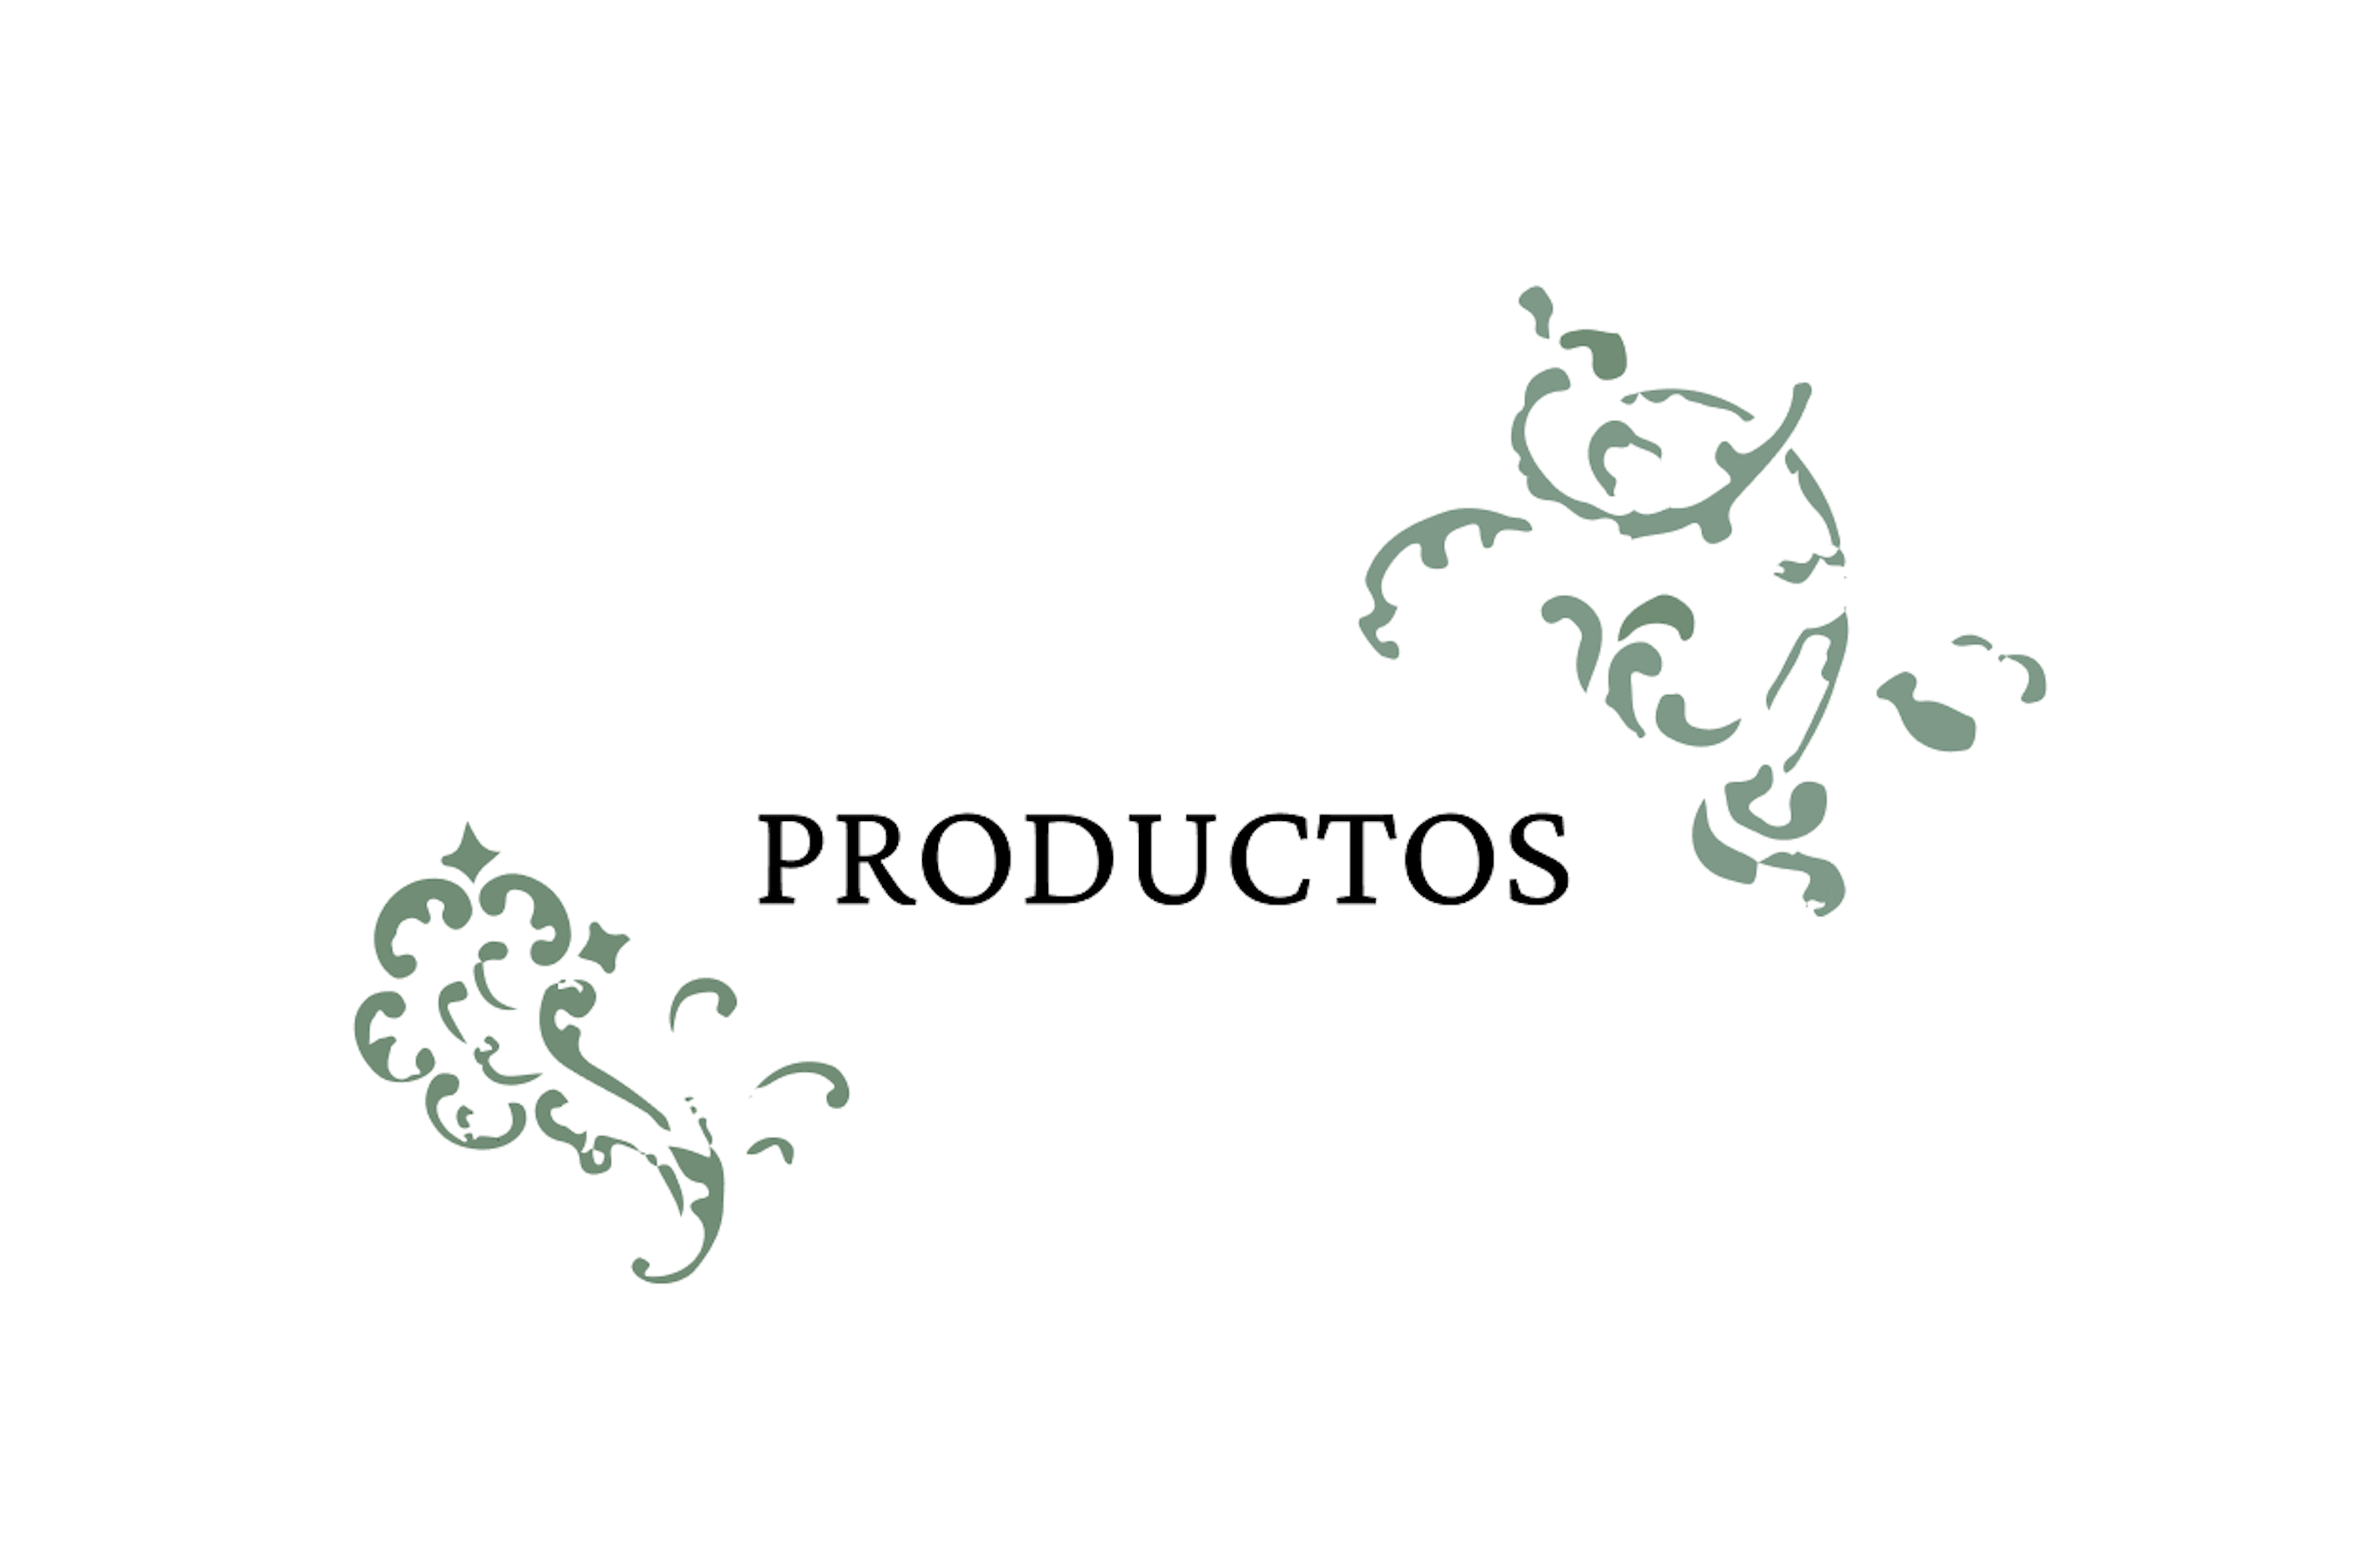
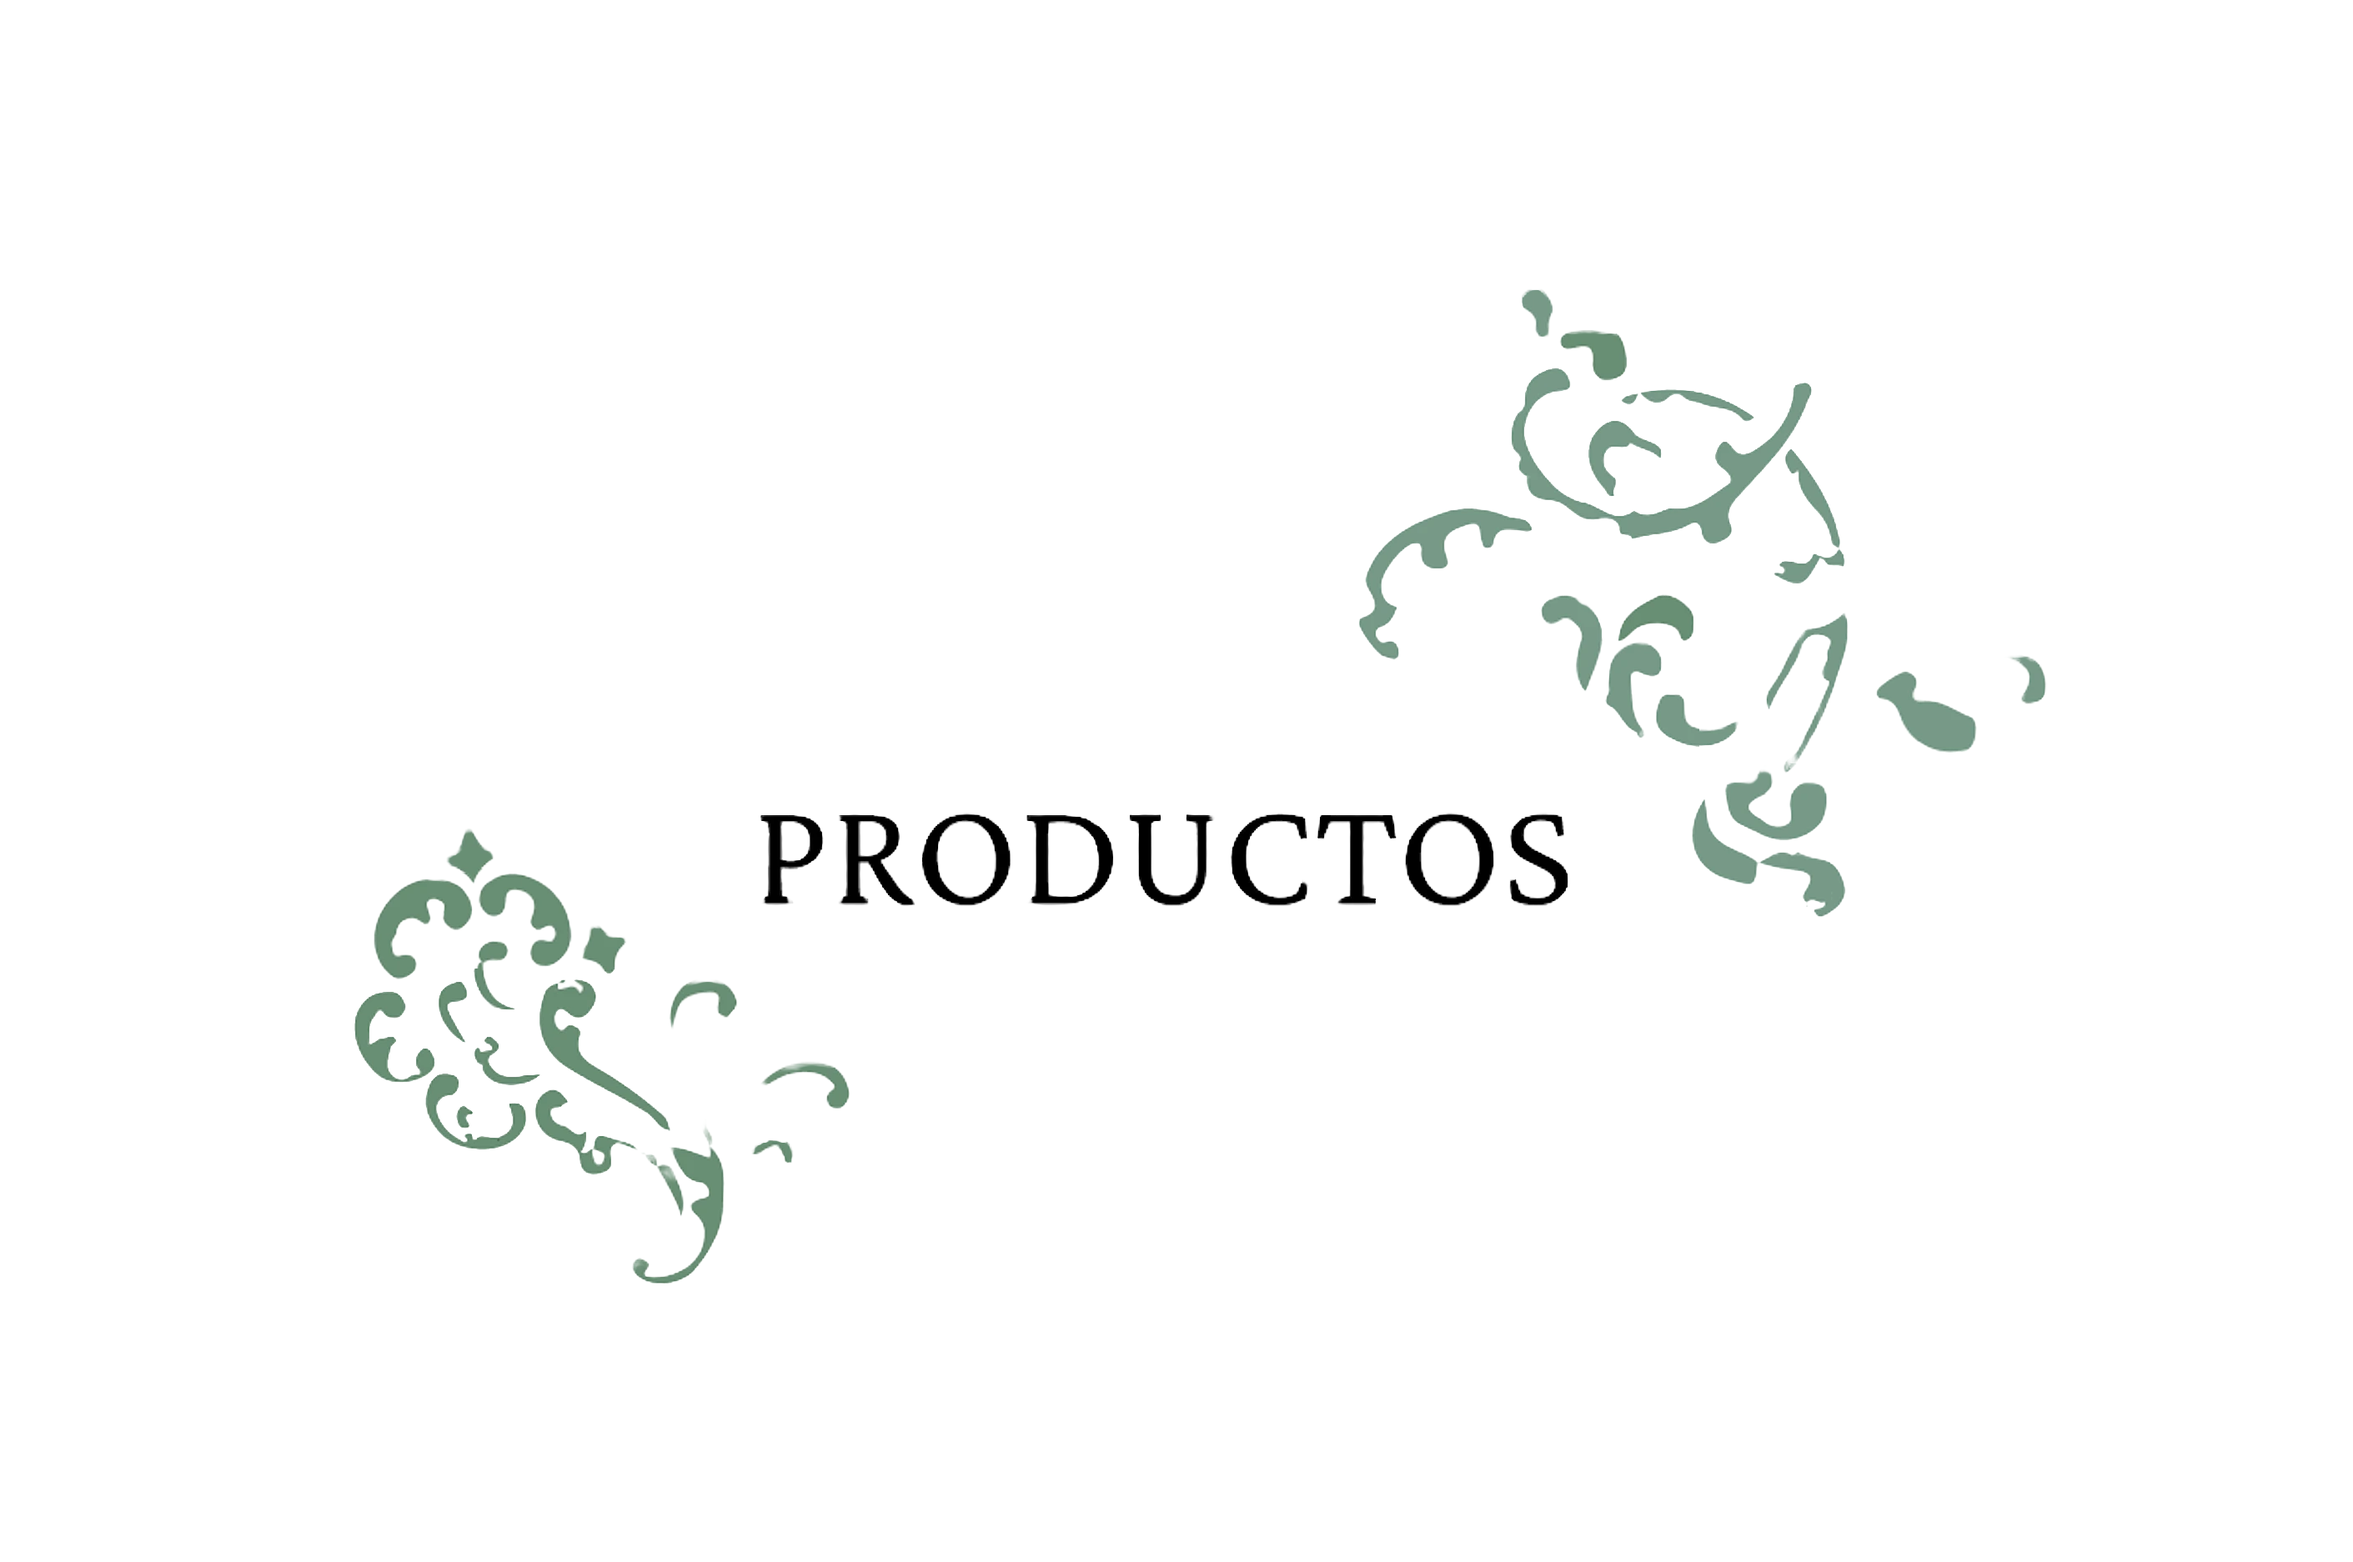
modo_oscuro

Changed region(s): [[0.2807, 0.7118, 0.3118, 0.7737], [0.7484, 0.4642, 0.7796, 0.4952], [0.1871, 0.5261, 0.2183, 0.5571]]

diff --git a/index.html b/index.html
@@ -16,6 +16,9 @@
   <link rel="stylesheet" href="/css/styles.css">
 
   <style type="text/tailwindcss">
+    
+    @custom-variant dark (&:where(.dark, .dark *));
+
     @theme static {
         --color-fondo: #ffffff;       /* blanco */
         --color-texto: #000000;       /* negro */
@@ -44,7 +47,7 @@
       <div class="bg-fondo pt-10 sm:pt-10 sm:pb-14 text-center overflow-hidden">
         
         <h1 id="titulo-productos" class="titulo-banner relative isolate mx-auto mb-4 sm:mb-6">
-            <img src="media/img/ilustracion_1.webp" alt="Productos" class="mx-auto h-auto w-[min(100vw,50rem)]">
+            <img src="media/img/ilustracion_1.webp" alt="Productos" class="mx-auto h-auto w-[min(100vw,50rem)] dark:invert">
         </h1>
 
       </div>
@@ -126,7 +129,7 @@
         <div class="mx-auto max-w-3xl px-8 sm:px-10 pt-24 pb-32 sm:pt-28 sm:pb-40">
             
             <h2 id="titulo-novedades" class="mx-auto text-center" data-aos="fade-down">
-                <img src="media/img/ilustracion_2.webp" alt="Novedades" class="mx-auto h-auto w-[min(65vw,32rem)]">
+                <img src="media/img/ilustracion_2.webp" alt="Novedades" class="mx-auto h-auto w-[min(65vw,32rem)] dark:invert">
 
             </h2>
             
@@ -203,7 +206,7 @@
 
 </main>
 
-    <footer class="footer-botanico text-fondo" aria-label="Pie de página">
+    <footer class="footer-botanico text-white" aria-label="Pie de página">
     <div class="mx-auto max-w-2xl px-6 py-20 sm:py-28 text-center flex flex-col items-center gap-14">
 
      

diff --git a/CSS/styles.css b/CSS/styles.css
@@ -4,6 +4,17 @@
 
 @layer base {
     :focus-visible { outline-offset: 4px; }
+    
+        .dark {
+        --color-fondo: #121815;
+        --color-texto: #f2f5f2;
+        --color-superficie: #1d2420;
+        --color-suave: #c9d3cc;
+        --color-borde: #2e3a33;
+        --color-niebla: #1d2a23;
+        --color-acento: #8fc0a5;
+        color-scheme: dark;
+    }
 }
 
 @layer components {
@@ -108,6 +119,8 @@
 
   
     .tarjeta:hover .marco-novedad .marco { box-shadow: none; }
+    
+    .dark .marco-novedad .marco::before { filter: invert(1); }
 }
 
 
@@ -186,3 +199,4 @@
 @media (prefers-reduced-motion: reduce) {
     .footer-botanico::before { animation: none; }
 }
+
